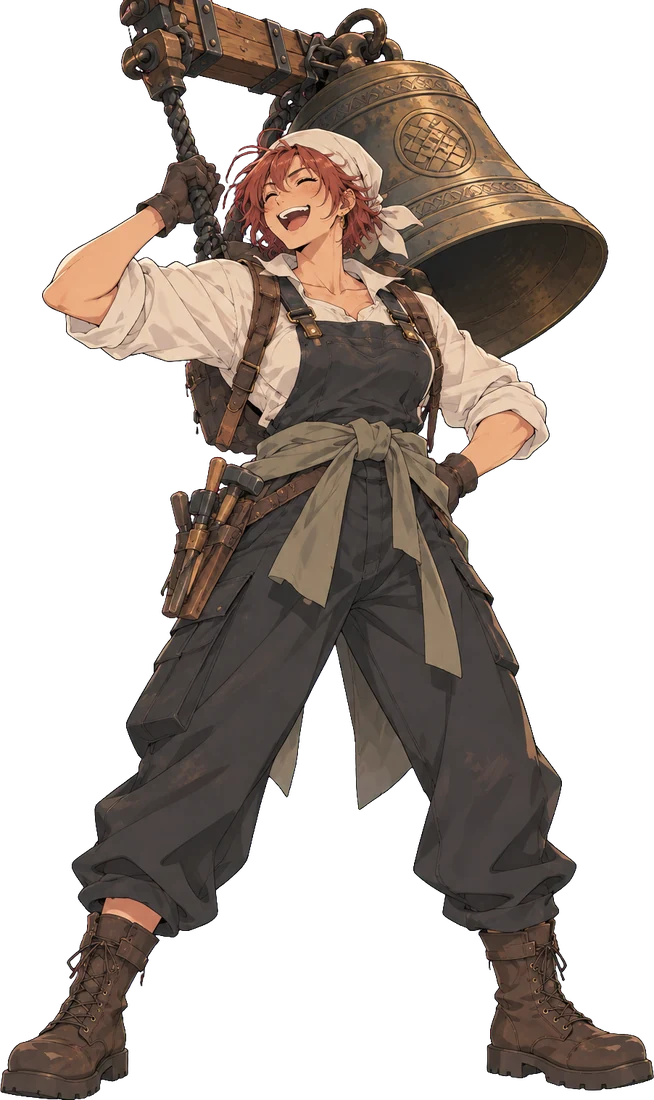
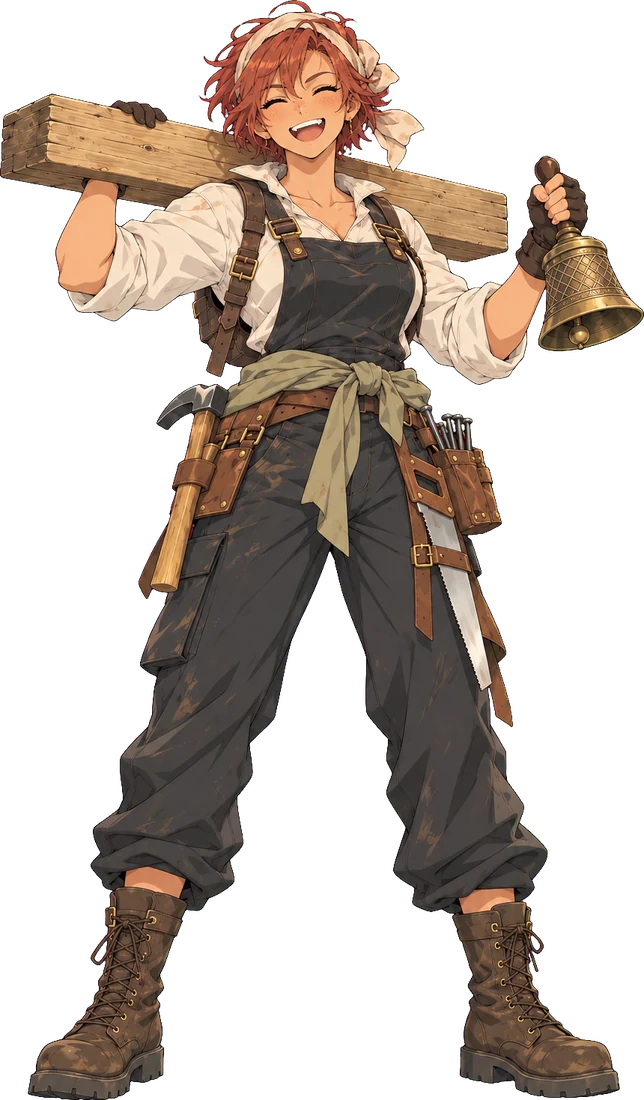
締めの前に3人の一枚絵、サフィ・ベルッカの全身を描き直し、映像の中の3人に名前（サフィ・オルゼナ・セドラン）

diff --git a/index.html b/index.html
@@ -258,6 +258,10 @@ footer .links a:hover{color:var(--teal)}
 #zoom.on{display:grid}
 #zoom img{max-width:min(1280px,96vw);max-height:84vh;object-fit:contain;border:1px solid var(--line)}
 #zoom p{color:var(--ivory);text-align:center;margin-top:12px;font-size:.92rem}
+#together{padding:90px 0 0}
+.trio-art{border:1px solid var(--line);overflow:hidden;box-shadow:0 30px 80px rgba(0,0,0,.55)}
+.trio-art img{display:block;width:100%;height:auto}
+.trio-line{font-family:var(--mincho);text-align:center;color:var(--ivory);font-size:clamp(1.05rem,2.4vw,1.5rem);letter-spacing:.12em;line-height:1.9;margin-top:34px;text-wrap:balance}
 </style>
 <!-- /more:css -->
 </head>
@@ -453,7 +457,7 @@ footer .links a:hover{color:var(--teal)}
           </div>
         </article>
         <article class="char fx">
-          <div class="ph"><img width="715" height="1100" src="assets/img/pose_safi.webp" alt="サフィ の全身" loading="lazy"></div>
+          <div class="ph"><img width="719" height="1100" src="assets/img/pose_safi.webp" alt="サフィ の全身" loading="lazy"></div>
           <div class="body">
             <p class="role">帆装職人・踊り手</p>
             <h3>サフィ</h3>
@@ -471,7 +475,7 @@ footer .links a:hover{color:var(--teal)}
           </div>
         </article>
         <article class="char fx">
-          <div class="ph"><img width="654" height="1100" src="assets/img/pose_bellucca.webp" alt="ベルッカ の全身" loading="lazy"></div>
+          <div class="ph"><img width="644" height="1100" src="assets/img/pose_bellucca.webp" alt="ベルッカ の全身" loading="lazy"></div>
           <div class="body">
             <p class="role">船橋の大工</p>
             <h3>ベルッカ</h3>
@@ -493,9 +497,9 @@ footer .links a:hover{color:var(--teal)}
 <div class="meet fx">
         <h3>映像の中の、旅の先</h3>
         <div class="trio">
-          <figure><img width="1280" height="720" src="assets/img/dancer.jpg" alt="隊商の野営地で踊る女性" loading="lazy"><figcaption>砂路の舞台で踊る者</figcaption></figure>
-          <figure><img width="1280" height="720" src="assets/img/enemy.jpg" alt="青く光る灯籠をかかげる女性" loading="lazy"><figcaption>灯籠をかかげる者</figcaption></figure>
-          <figure><img width="1280" height="720" src="assets/img/rival.jpg" alt="白い外套の男とジンが斬り結ぶ" loading="lazy"><figcaption>白い外套の宿敵</figcaption></figure>
+          <figure><img width="1280" height="720" src="assets/img/dancer.jpg" alt="隊商の野営地で踊る女性" loading="lazy"><figcaption>サフィ ― 砂路の舞台で踊る者</figcaption></figure>
+          <figure><img width="1280" height="720" src="assets/img/enemy.jpg" alt="青く光る灯籠をかかげる女性" loading="lazy"><figcaption>オルゼナ ― 灯籠をかかげる者</figcaption></figure>
+          <figure><img width="1280" height="720" src="assets/img/rival.jpg" alt="白い外套の男とジンが斬り結ぶ" loading="lazy"><figcaption>セドラン ― 白い外套の宿敵</figcaption></figure>
         </div>
       </div>
     </div>
@@ -670,7 +674,15 @@ footer .links a:hover{color:var(--teal)}
     </div>
   </section>
 
-  <section class="closing">
+  <!-- more:together -->
+  <section id="together">
+    <div class="wrap">
+      <figure class="trio-art fx"><img width="1536" height="1024" src="assets/img/trio_dusk.webp" alt="夕暮れの砂丘に並んで立つ、ダリオ・ジン・ノエル。遠くに座礁船の町ヘイズの灯り" loading="lazy"></figure>
+      <p class="trio-line fx">ジン、ノエル、ダリオ。<br>三人の旅は、干上がった海の底から始まる。</p>
+    </div>
+  </section>
+<!-- /more:together -->
+<section class="closing">
     <div class="bg" aria-hidden="true"></div>
     <div class="in wrap fx">
       <p class="ask">なぜ、Rem だけが<br>厄災を封じられるのか――</p>
